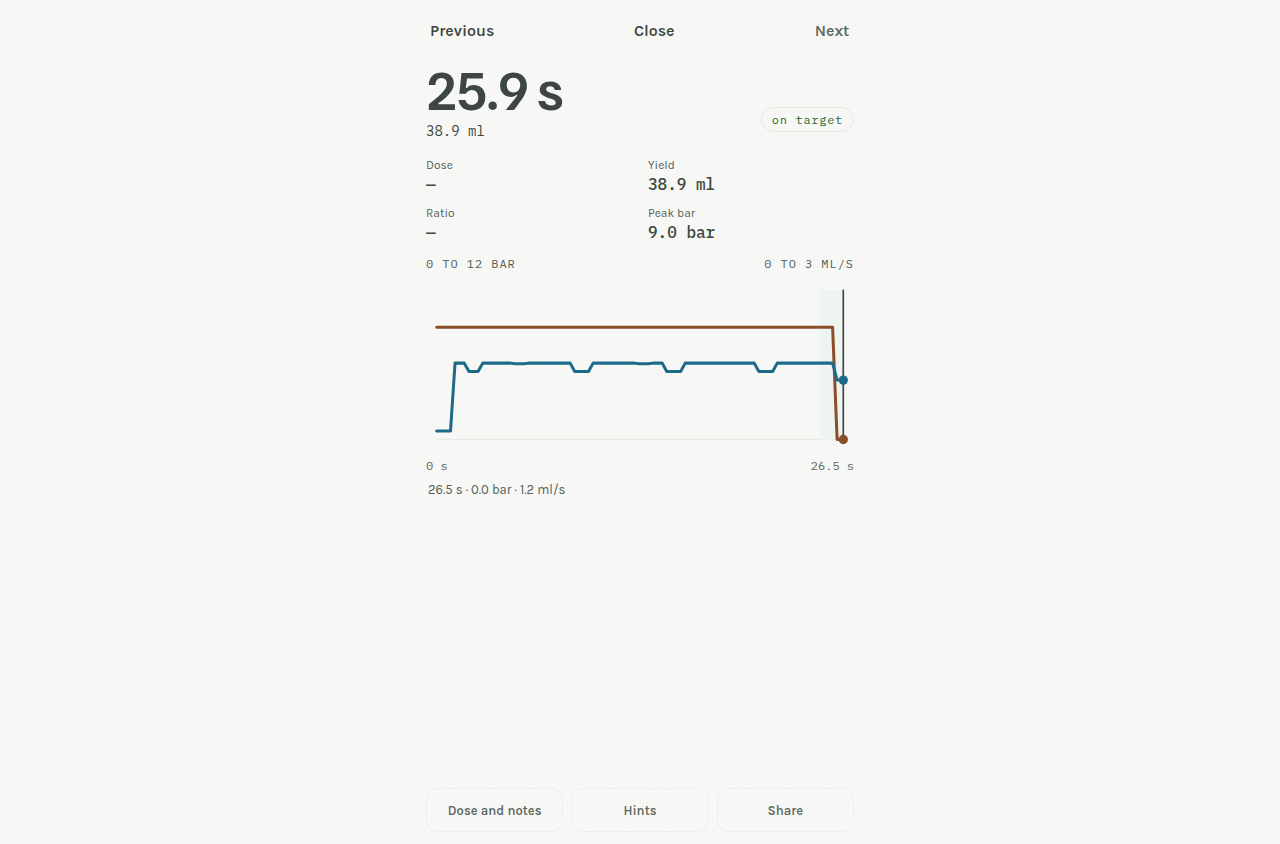
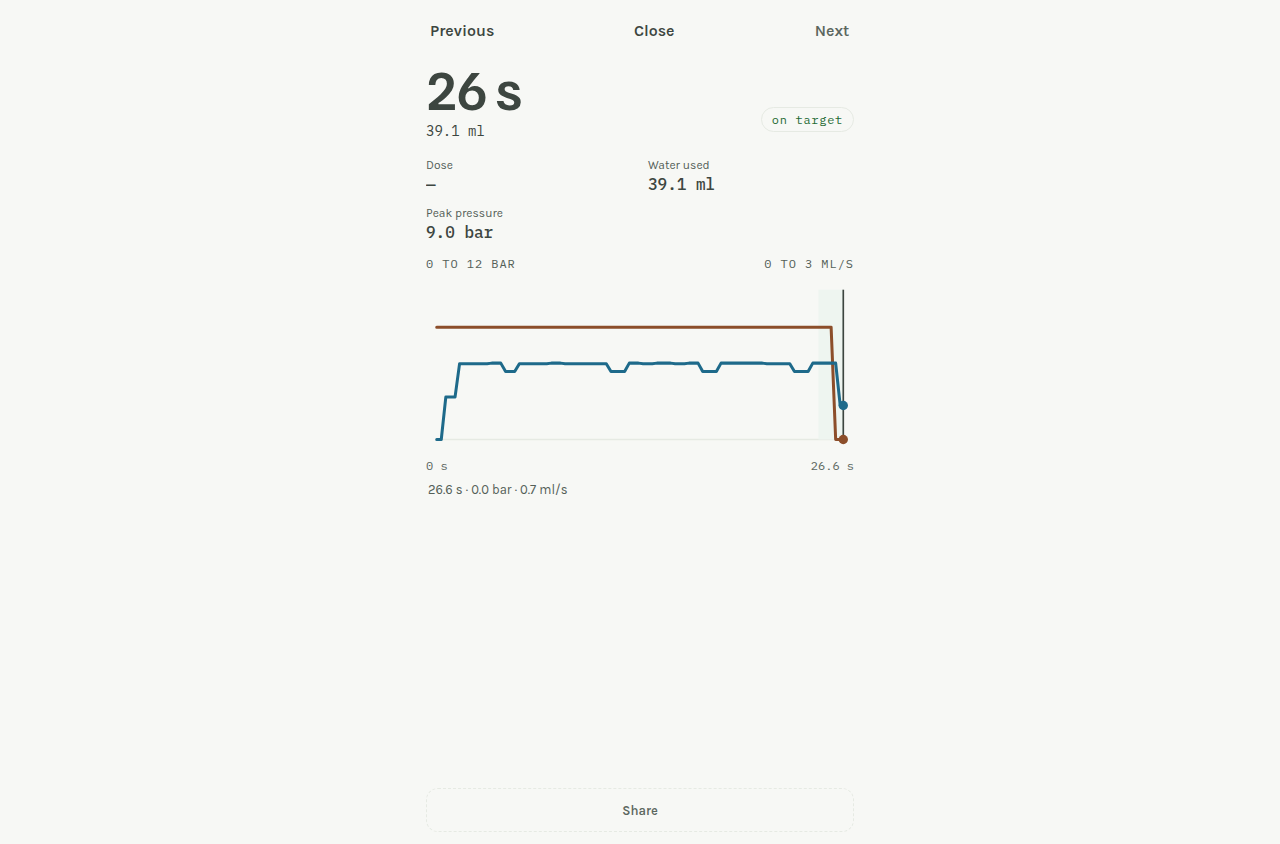
fix: drop ratio, notes and hints from the shot sheet
Ratio stays off the sheet until a dose is stored. The numbers that remain are Water used and Peak pressure.

diff --git a/smart_espresso/web/static/index.html b/smart_espresso/web/static/index.html
@@ -785,8 +785,7 @@
   }
 
   /* Shot detail is a sheet over the page, so the list underneath does not
-     jump when a row opens. Dose, ratio, notes, hints and share keep their
-     places until those features exist. */
+     jump when a row opens. Share keeps its place until that feature exists. */
   .shot-sheet {
     position: fixed;
     inset: 0;
@@ -1431,8 +1430,8 @@
     </div>
     <div class="sheet-scroll" id="sheet-body"></div>
     <div class="sheet-actions">
-      <button type="button" class="sheet-slot" id="sheet-notes" disabled>Dose and notes</button>
-      <button type="button" class="sheet-slot" id="sheet-hints" disabled>Hints</button>
+      <!-- TODO(#26): dose and notes editor. -->
+      <!-- TODO(#27): hint card. -->
       <button type="button" class="sheet-slot" id="sheet-share" disabled>Share</button>
     </div>
   </div>
@@ -2288,6 +2287,7 @@ function paintShot(detail, shot) {
   } else {
     chart = `<p class="history-meta" id="sheet-summary">${escapeHtml(summary)}</p>`;
   }
+  // TODO(#26): ratio stays off this sheet until a dose is stored.
   detail.innerHTML =
     `<div class="sheet-hero">` +
     `<div><b id="sheet-duration">${escapeHtml(DashboardLogic.secondsText(seconds))}</b>` +
@@ -2295,9 +2295,8 @@ function paintShot(detail, shot) {
     `<span class="verdict-chip ${verdict.key}">${escapeHtml(verdict.label)}</span></div>` +
     `<div class="sheet-grid">` +
     `<div><span>Dose</span><b>${missing}</b></div>` +
-    `<div><span>Yield</span><b>${escapeHtml(ml.toFixed(1))} ml</b></div>` +
-    `<div><span>Ratio</span><b>${missing}</b></div>` +
-    `<div><span>Peak bar</span><b>${escapeHtml(peak)}</b></div>` +
+    `<div><span>Water used</span><b>${escapeHtml(ml.toFixed(1))} ml</b></div>` +
+    `<div><span>Peak pressure</span><b>${escapeHtml(peak)}</b></div>` +
     `</div>${chart}`;
   if (openCurve) drawScrub(openCurve.index);
 }

diff --git a/smart_espresso/test/test_dashboard_logic.py b/smart_espresso/test/test_dashboard_logic.py
@@ -354,13 +354,18 @@ class TestShotSheet:
         assert "sheet-skel" in self.page
         assert "focus({ preventScroll: true })" in self.page
 
-    def test_share_notes_and_hints_keep_a_slot(self):
-        assert ">Dose and notes<" in self.page
-        assert ">Hints<" in self.page
+    def test_share_keeps_a_slot_and_ratio_stays_off_the_sheet(self):
         assert ">Share<" in self.page
-        assert 'id="sheet-notes" disabled' in self.page
-        assert 'id="sheet-hints" disabled' in self.page
         assert 'id="sheet-share" disabled' in self.page
+        assert ">Dose and notes<" not in self.page
+        assert ">Hints<" not in self.page
+        assert ">Ratio<" not in self.page
+        assert ">Yield<" not in self.page
+        assert ">Peak bar<" not in self.page
+        assert ">Water used<" in self.page
+        assert ">Peak pressure<" in self.page
+        assert "TODO(#26)" in self.page
+        assert "TODO(#27)" in self.page
 
     def test_one_chart_shares_time_and_shades_the_window(self):
         model = call(
